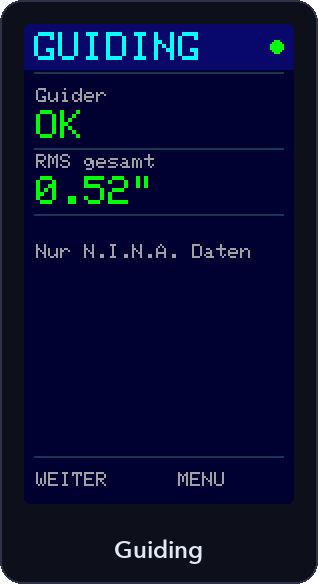
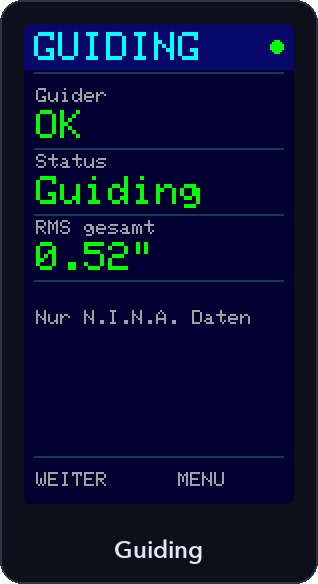
Parse real Advanced API v2 responses, document changes
- Sequence state read from the v2 sequence tree: status, current target,
  running step, exposure time and frames (loop condition)
- JSON nesting limit raised to 40 (sequence tree exceeds the default 10)
- Camera: cooler power; guider: state, RMS from RMSError.Total, hidden
  while not guiding
- Umlauts transliterated for the display font, long values shown small
- secrets.h fallback keeps placeholders only and warns when missing
- NINA_Sequence/ ignored; README updated, CHANGELOG added

diff --git a/tools/render_mockups.py b/tools/render_mockups.py
@@ -155,7 +155,7 @@ class Screen:
 D = dict(api=True, camera=True, mount=True, guider=True, wheel=True, focuser=True,
          running=True, parked=False, temp=-9.8, target_temp=-10.0, rms=0.52,
          alt=62.3, az=314.8, ra=23.345, dec=61.216, filter="Ha 7nm",
-         target="NGC 7635", sequence="Bubble Nebula Ha", camera_name="ToupTek",
+         target="NGC 7635", step="Belichtung ausfuehren", camera_name="ATR2600C", cooler=48,
          completed=42, total=120, exposure=300)
 SITE_LAT, SITE_LON = 52.52, 13.40
 WIFI_IP, NINA_IP = "192.168.1.42", "192.168.1.20"
@@ -195,7 +195,10 @@ class Pages:
 
     def kv(self, y, label, value, c=WHITE):
         self.text(6, y, cut(label, 20), GRAY)
-        self.text(6, y + 11, cut(value, 10), c, 2)
+        if len(value) <= 10:
+            self.text(6, y + 11, value, c, 2)
+        else:
+            self.text(6, y + 15, cut(value, 21), c)
         self.sep(y + 30)
 
     def row(self, y, label, val, c=WHITE):
@@ -234,7 +237,7 @@ class Pages:
         self.header("SESSION")
         self.text(6, 30, "AKTIV", GREEN, 2)
         self.kv(52, "Objekt", D["target"], CYAN)
-        self.kv(85, "Sequenz", D["sequence"])
+        self.kv(85, "Schritt", D["step"])
         self.kv(118, "Frames", f"{D['completed']}/{D['total']}")
         self.kv(151, "Belichtung", f"{D['exposure']} s")
         self.footer()
@@ -245,13 +248,15 @@ class Pages:
         self.kv(44, "Verbindung", "OK", GREEN)
         self.kv(77, "Ist-Temperatur", f"{D['temp']:.1f}{DEG}C", CYAN)
         self.kv(110, "Soll-Temperatur", f"{D['target_temp']:.1f}{DEG}C")
+        self.kv(143, "Kuehlleistung", f"{D['cooler']} %")
         self.footer()
 
     def guiding(self):
         self.header("GUIDING")
         self.kv(32, "Guider", "OK", GREEN)
-        self.kv(65, "RMS gesamt", f"{D['rms']:.2f}\"", GREEN)
-        self.text(6, 110, "Nur N.I.N.A. Daten", GRAY)
+        self.kv(65, "Status", "Guiding", GREEN)
+        self.kv(98, "RMS gesamt", f"{D['rms']:.2f}\"", GREEN)
+        self.text(6, 143, "Nur N.I.N.A. Daten", GRAY)
         self.footer()
 
     def filter(self):

diff --git a/README.md b/README.md
@@ -27,7 +27,7 @@
 | 📡 **Auto-Discovery** | Leere Host-Angabe genügt: Der Companion findet den N.I.N.A.-PC im lokalen Netz selbst und merkt sich die Adresse. |
 | 📈 **Höhenverlauf** | ±4 Stunden um jetzt, berechnet aus RA/Dec der Montierung und deinem Standort – inkl. Meridiandurchgang. |
 | 🧊 **Ehrliche Anzeige** | Fehlende Werte erscheinen als `--`. Ist N.I.N.A. kurz weg, bleiben die letzten Werte sichtbar und sind mit `ALT` markiert. |
-| ⚡ **Ruhiges Bild** | Seiten werden im Hintergrund aufgebaut und flackerfrei übertragen. Die Tasten bleiben auch bei Netzproblemen bedienbar. |
+| ⚡ **Ruhiges, gut lesbares Bild** | Große Schrift für alle Werte, flackerfreier Bildaufbau. Die Tasten bleiben auch bei Netzproblemen bedienbar. |
 | 🧰 **Minimal-Hardware** | Ein LilyGO T-Display, optional ein Akku – Installation komplett über die Arduino IDE, [Gehäuse zum Drucken](hardware/gehaeuse) inklusive. |
 
 ## 📱 Ansichten
@@ -153,13 +153,15 @@ Fortschritt und gefundene Adresse siehst du im Hauptmenü und auf der Seite **In
 
 ## 🔭 Die Ansichten im Detail
 
-- **Systemstatus** – auch **ohne laufende Sequenz** aufrufbar: Verbindung von Kamera, Montierung, Guider, Filterrad und Fokussierer.
-- **Session** – Ziel, Sequenz, Frames und Belichtungszeit.
-- **Kamera** – Ist- und Soll-Temperatur.
-- **Guiding** – Gesamt-RMS in Bogensekunden.
+- **Systemstatus** – auch **ohne laufende Sequenz** aufrufbar: Verbindung von Kamera, Montierung, Guider, Filterrad und Fokussierer, dazu Filter und Kameratemperatur.
+- **Session** – Status (`AKTIV`, `INAKTIV`, `BEENDET`), aktuelles Ziel, der gerade laufende Schritt der Sequenz (z. B. „Kamera kuehlen“), Frames und Belichtungszeit. Nach dem Ende bleibt das zuletzt bearbeitete Ziel sichtbar.
+- **Kamera** – Name, Ist- und Soll-Temperatur sowie die Kühlleistung in Prozent.
+- **Guiding** – Verbindung, Status des Guiders (z. B. `Guiding`, `Stopped`) und Gesamt-RMS in Bogensekunden. Der RMS erscheint nur, solange geguidet wird – ein `0.00″` bei gestopptem Guiding wäre irreführend.
 - **Filterrad** – aktiver Filter.
-- **Objekt** – Ziel, Höhe, Azimut und Koordinaten der Montierung.
-- **Höhenverlauf** – Kurve ±4 Stunden um jetzt; grüne Markierung für die aktuelle Position, gestrichelte gelbe Linie für den Meridiandurchgang.
+- **Objekt** – Ziel, Höhe, Azimut, RA und Dec der Montierung.
+- **Höhe** – Kurve ±4 Stunden um jetzt; grüne Markierung für die aktuelle Position, gestrichelte gelbe Linie für den Meridiandurchgang.
+
+**Lesbarkeit:** Werte und Seitentitel stehen in doppelter Schriftgröße. Längere Texte (über 10 Zeichen) erscheinen klein, aber vollständig bis 21 Zeichen. Umlaute aus N.I.N.A. werden umschrieben (ü → ue), weil die Display-Schrift kein UTF-8 kennt.
 
 > [!CAUTION]
 > Die Transitmarkierung ist **keine bestätigte N.I.N.A.-Flip-Planung**. Eine echte Flip-Markierung bräuchte zusätzliche Konfigurations- und Sequenzinformationen aus N.I.N.A.
@@ -186,17 +188,20 @@ Dokumentation: [N.I.N.A. Advanced API](https://github.com/christian-photo/ninaAP
 
 ## 🚧 Grenzen von v0.1
 
-- Die JSON-Strukturen unterscheiden sich je nach Advanced-API-Version und installierten Plugins. Bekannte Felder werden defensiv gelesen; fehlt eines, erscheint `--`. Sequenz-Fortschritt, Filtername und RMS brauchen ggf. noch einen Abgleich mit echten Antworten.
+- Ausgewertet wird das Format der **Advanced API v2**, abgeglichen mit echten Antworten (Sequenzbaum, Kamera mit Kühlung, PHD2-Guider). Andere Versionen oder Plugins können abweichen; fehlt ein Feld, erscheint `--`.
+- Die **Frame-Anzeige** (z. B. `12/30`) liest die Schleifen-Bedingung des Containers mit der Belichtung. Dieser Teil ist noch nicht mit einer echten Antwort geprüft; ohne Schleife bleibt sie bei `--/--`.
+- Sehr lange Sequenzen ergeben große JSON-Antworten; sie müssen in den freien Arbeitsspeicher des ESP32 (ca. 270 KB) passen.
 - Die Höhenkurve nutzt die aktuell von der Montierung gemeldeten RA/Dec-Koordinaten, **nicht zwingend** das geplante N.I.N.A.-Ziel. Ohne plausible Koordinaten wird keine Kurve gezeichnet.
 - Auto-Discovery durchsucht nur das eigene /24-Netz (z. B. `192.168.1.x`).
 - Statusabfragen blockieren kurz (Verbindungs-Timeout 1,5 s). Ist N.I.N.A. nicht erreichbar, werden die übrigen Abfragen der Runde übersprungen.
 - Keine Online-Bilder oder Wetterdaten.
 - Keine Akkuanzeige – Kalibrierung und Akkumessung sind boardabhängig, ein Prozentwert würde nur etwas vortäuschen.
-- Der Sketch kompiliert für `ESP32 Dev Module` (ESP32-Core 3.3.12); ein Test auf echter Hardware steht noch aus.
+- Läuft auf einem LilyGO T-Display (`ESP32 Dev Module`, ESP32-Core 3.3.12). Nicht jede Anzeige ist schon im Live-Betrieb einer ganzen Nacht geprüft.
 
 ## 🗺 Ideen für später
 
-- [ ] Abgleich der Felder mit echten Advanced-API-Antworten (Sequenz, RMS, Soll-Temperatur)
+- [x] Abgleich der Felder mit echten Advanced-API-Antworten (Sequenz, Kamera, Guider)
+- [ ] Frame-Zähler mit einer laufenden Schleife bestätigen
 - [ ] Echte Flip-Markierung aus den N.I.N.A.-Einstellungen
 - [ ] Asynchroner API-Client
 - [ ] Fotos vom Gerät im Einsatz
@@ -211,6 +216,10 @@ python3 tools/render_mockups.py
 ```
 
 Das Skript liest die Schrift aus der installierten Adafruit GFX Library und schreibt nach `docs/images/`.
+
+## 📝 Änderungen
+
+Alle Änderungen stehen im [CHANGELOG](CHANGELOG.md).
 
 ## 👤 Autor
 

diff --git a/CHANGELOG.md b/CHANGELOG.md
@@ -1,0 +1,32 @@
+# Changelog
+
+## v0.1 – November 2026
+
+### Anzeige
+- Bild um 180° gedreht: USB-C und Tasten unten.
+- Werte und Seitentitel in doppelter Schriftgröße; längere Texte klein, aber vollständig (bis 21 Zeichen).
+- Flackerfreier Bildaufbau über einen Bildpuffer im Speicher.
+- Fußzeile mit den Tastenfunktionen `WEITER` / `MENU`.
+- Zuletzt bekannte Werte bleiben bei Verbindungsverlust sichtbar und sind mit `ALT` markiert.
+- Umlaute aus N.I.N.A. werden für die Display-Schrift umschrieben (ü → ue).
+- Zu lange Texte, die am Rand umgebrochen wären, gekürzt.
+
+### N.I.N.A.-Daten
+- Sequenzstatus aus dem Sequenzbaum der Advanced API v2: Status, aktuelles Ziel, laufender Schritt, Belichtungszeit und Frames.
+- JSON-Verschachtelungstiefe auf 40 Ebenen erhöht – der Sequenzbaum war für die Standardgrenze (10) zu tief.
+- Kamera: Soll-Temperatur (`TargetTemp` / `TemperatureSetPoint`) und Kühlleistung.
+- Guider: RMS aus `RMSError.Total.Arcseconds` und Guider-Status; RMS nur während des Guidings.
+- Antworten werden ohne Chunked Encoding angefordert (`HTTP/1.0`), damit ArduinoJson sie direkt lesen kann.
+
+### Netzwerk
+- Auto-Discovery: Ist `NINA_HOST` leer, wird der N.I.N.A.-PC im eigenen /24-Netz gesucht, per `GET /v2/api/version` bestätigt und im Flash gespeichert.
+- Verbindungs-Timeout 1,5 s; ist N.I.N.A. nicht erreichbar, werden die übrigen Abfragen der Runde übersprungen.
+- Beim Start wird bis zu 10 s auf das WLAN gewartet; nach einem Reconnect wird sofort abgefragt.
+
+### Konfiguration
+- WLAN-Zugangsdaten und Standort in `secrets.h` ausgelagert (in `.gitignore`), Vorlage `secrets_example.h`.
+
+### Projekt
+- Projektseite mit pixelgenauen Mockups (`tools/render_mockups.py`).
+- 3D-druckbares Gehäuse für T-Display und 1100-mAh-Akku (`hardware/gehaeuse`).
+- MIT-Lizenz.
